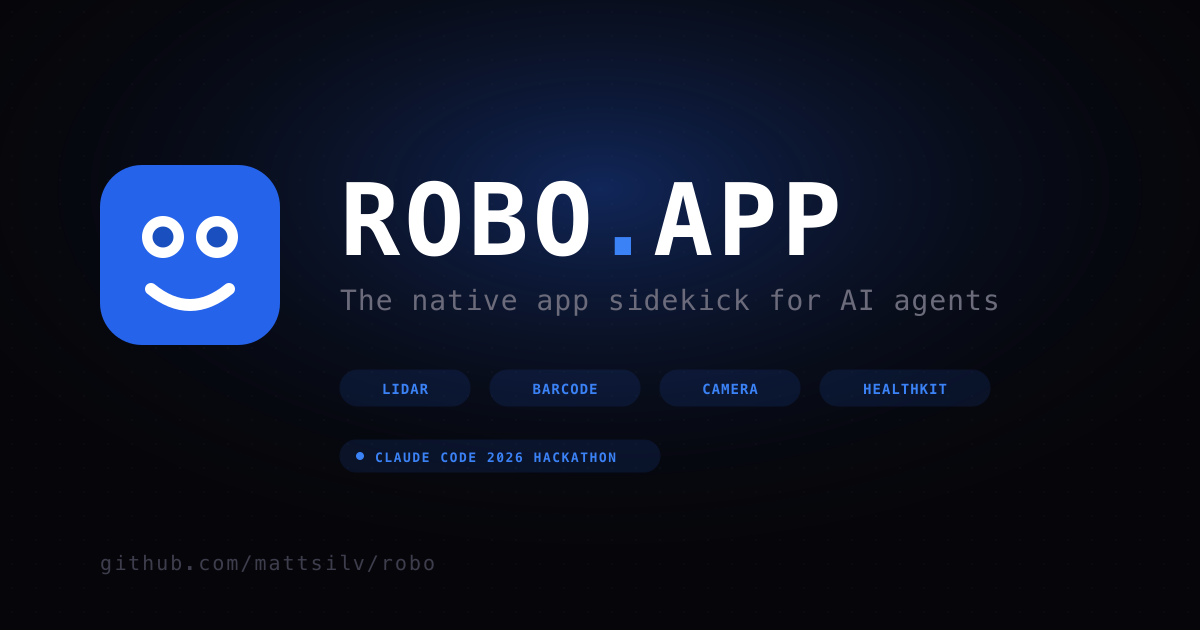
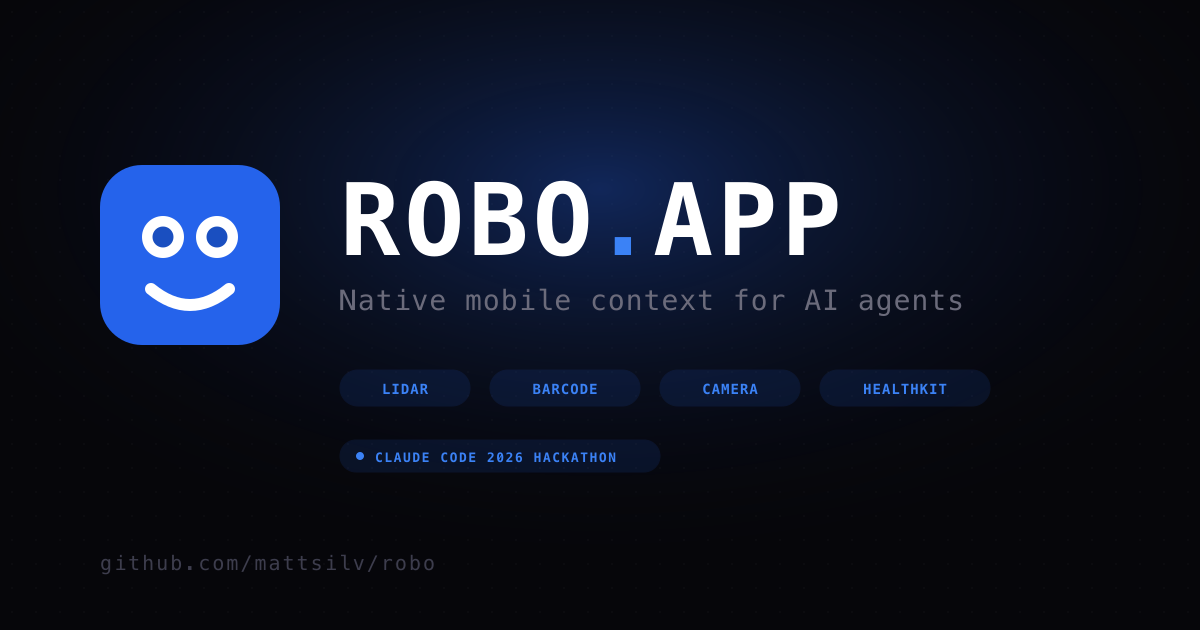
refine site messaging: native mobile context for agents (#80)
Update tagline, meta tags, description, and docs to reflect refined
pitch from Zoom feedback. Frame around native mobile context unlocking
rather than sensor APIs. Add "How It Works" 3-step section to landing
page. Replace "Vibe Coders" audience label with "Builders". Add
integration options (webhooks, REST, MCP, email) throughout.

Changed region(s): [[0.2775, 0.4524, 0.8325, 0.5127]]

diff --git a/site/index.html b/site/index.html
@@ -3,8 +3,8 @@
 <head>
   <meta charset="UTF-8">
   <meta name="viewport" content="width=device-width, initial-scale=1.0">
-  <title>ROBO.APP — The Native App Sidekick for AI Agents</title>
-  <meta name="description" content="Robo turns your iPhone's LiDAR, camera, and barcode scanner into API endpoints any AI agent can use. No iOS development required.">
+  <title>ROBO.APP — Native Mobile Context for AI Agents</title>
+  <meta name="description" content="LiDAR, camera, and barcode data are trapped on your phone — invisible to AI agents. Robo unlocks them via webhooks, REST API, MCP, or simple email export. Open source, no iOS dev required.">
 
   <!-- Favicon -->
   <link rel="icon" type="image/svg+xml" href="/favicon.svg">
@@ -15,18 +15,18 @@
   <!-- Open Graph / Facebook / Discord / iMessage -->
   <meta property="og:type" content="website">
   <meta property="og:url" content="https://robo.app/">
-  <meta property="og:title" content="ROBO.APP — Phone Sensors as API Endpoints for AI Agents">
-  <meta property="og:description" content="Turn your iPhone's LiDAR, camera, and barcode scanner into endpoints any AI agent can use. Open source. No iOS development required.">
+  <meta property="og:title" content="ROBO.APP — Native Mobile Context for AI Agents">
+  <meta property="og:description" content="LiDAR, camera, and barcode data are trapped on your phone. Robo unlocks them for AI agents — webhooks, REST, MCP, or email. Open source.">
   <meta property="og:image" content="https://robo.app/og-image.png">
   <meta property="og:image:width" content="1200">
   <meta property="og:image:height" content="630">
-  <meta property="og:image:alt" content="ROBO.APP — The native app sidekick for AI agents. Features: LiDAR, Barcode, Camera, HealthKit.">
+  <meta property="og:image:alt" content="ROBO.APP — Native mobile context for AI agents. Features: LiDAR, Barcode, Camera, HealthKit.">
   <meta property="og:site_name" content="ROBO.APP">
 
   <!-- Twitter / X -->
   <meta name="twitter:card" content="summary_large_image">
-  <meta name="twitter:title" content="ROBO.APP — Phone Sensors as API Endpoints for AI Agents">
-  <meta name="twitter:description" content="Turn your iPhone's LiDAR, camera, and barcode scanner into endpoints any AI agent can use. Open source. No iOS development required.">
+  <meta name="twitter:title" content="ROBO.APP — Native Mobile Context for AI Agents">
+  <meta name="twitter:description" content="LiDAR, camera, and barcode data are trapped on your phone. Robo unlocks them for AI agents — webhooks, REST, MCP, or email. Open source.">
   <meta name="twitter:image" content="https://robo.app/og-image.png">
   <meta name="twitter:creator" content="@mattsilv">
 
@@ -119,12 +119,15 @@
       animation: fadeUp 0.7s ease-out forwards;
     }
     .fade-in:nth-child(1) { animation-delay: 0.1s }
-    .fade-in:nth-child(2) { animation-delay: 0.25s }
-    .fade-in:nth-child(3) { animation-delay: 0.4s }
-    .fade-in:nth-child(4) { animation-delay: 0.55s }
-    .fade-in:nth-child(5) { animation-delay: 0.7s }
-    .fade-in:nth-child(6) { animation-delay: 0.85s }
-    .fade-in:nth-child(7) { animation-delay: 1.0s }
+    .fade-in:nth-child(2) { animation-delay: 0.2s }
+    .fade-in:nth-child(3) { animation-delay: 0.3s }
+    .fade-in:nth-child(4) { animation-delay: 0.4s }
+    .fade-in:nth-child(5) { animation-delay: 0.5s }
+    .fade-in:nth-child(6) { animation-delay: 0.6s }
+    .fade-in:nth-child(7) { animation-delay: 0.7s }
+    .fade-in:nth-child(8) { animation-delay: 0.8s }
+    .fade-in:nth-child(9) { animation-delay: 0.9s }
+    .fade-in:nth-child(10) { animation-delay: 1.0s }
 
     @keyframes fadeUp {
       to { opacity: 1; transform: translateY(0); }
@@ -221,8 +224,48 @@
       line-height: 1.7;
       color: var(--text-dim);
       text-align: center;
-      margin-bottom: 2.75rem;
+      margin-bottom: 2rem;
       max-width: 480px;
+    }
+
+    /* ── how it works ── */
+    .how-it-works {
+      display: flex;
+      flex-direction: column;
+      gap: 0;
+      width: 100%;
+      max-width: 480px;
+      margin-bottom: 2.75rem;
+    }
+
+    .step {
+      display: flex;
+      align-items: center;
+      gap: 0.75rem;
+      padding: 0.75rem 0;
+      border-bottom: 1px solid var(--border);
+    }
+
+    .step:last-child {
+      border-bottom: none;
+    }
+
+    .step-number {
+      font-family: 'JetBrains Mono', monospace;
+      font-weight: 800;
+      font-size: 0.85rem;
+      color: var(--blue-light);
+      min-width: 1.5rem;
+      text-align: center;
+    }
+
+    .step-text {
+      font-family: 'JetBrains Mono', monospace;
+      font-size: 0.75rem;
+      font-weight: 400;
+      color: var(--text-dim);
+      letter-spacing: 0.01em;
+      line-height: 1.5;
     }
 
     /* ── features ── */
@@ -362,7 +405,7 @@
     <h1 class="wordmark fade-in">ROBO<span class="dot">.</span>APP</h1>
 
     <!-- Tagline -->
-    <p class="tagline fade-in">The native app sidekick for AI agents</p>
+    <p class="tagline fade-in">Native mobile context for AI agents</p>
 
     <!-- Badge -->
     <div class="badge-wrap fade-in">
@@ -371,8 +414,24 @@
 
     <!-- Teaser -->
     <p class="description fade-in">
-      LiDAR, HealthKit, Bluetooth beacons, GPS — locked inside your phone. Until now. Robo turns native iOS capabilities into endpoints any AI agent can use. No iOS development required.
+      Building an AI agent is easy. Getting it phone sensor data? That means months of Swift, Xcode, and App Store review. Robo is the missing bridge — an open-source iOS app that turns your phone's sensors into endpoints any AI agent can use via webhooks, REST API, MCP, or simple email export.
     </p>
+
+    <!-- How It Works -->
+    <div class="how-it-works fade-in">
+      <div class="step">
+        <span class="step-number">1</span>
+        <span class="step-text">Your agent needs phone data (LiDAR, camera, barcode...)</span>
+      </div>
+      <div class="step">
+        <span class="step-number">2</span>
+        <span class="step-text">Users download Robo, connect via webhook / REST / email</span>
+      </div>
+      <div class="step">
+        <span class="step-number">3</span>
+        <span class="step-text">Agent gets structured sensor data — no iOS dev, no App Store</span>
+      </div>
+    </div>
 
     <!-- Features -->
     <div class="features fade-in">

diff --git a/docs/use-cases.md b/docs/use-cases.md
@@ -1,8 +1,8 @@
 # Robo Use Cases
 
-## Target Audience: Vibe Coders
+## Target Audience: Builders
 
-You can build AI agents with Claude Projects, ChatGPT, or custom GPTs. But getting phone sensor data into those agents? That requires building a native iOS app - months of Xcode, Swift, and App Store bureaucracy.
+The future of building is agentic — but your phone's richest context (LiDAR, camera, barcodes) is trapped on the device, invisible to AI agents. Want that data? Build a native iOS app. Months of Swift, Xcode, and App Store review.
 
 Robo is the missing bridge: **open-source iOS app that turns your phone's sensors into APIs any AI agent can use.**
 
@@ -73,20 +73,21 @@ Robo is the missing bridge: **open-source iOS app that turns your phone's sensor
 
 ## Key Differentiators
 
-### For Vibe Coders
-- **No iOS development required** - Skip the Swift learning curve
+### For Builders
+- **No iOS development required** - Skip Swift, Xcode, and App Store review
 - **Provider-agnostic** - Works with Claude, ChatGPT, your custom backend, or just email
+- **Integration options** - Webhooks, REST API, MCP, or simple email/zip export
 - **Open source** - Fork it, extend it, audit the code
 - **Free tier** - Email/zip export works without any backend
 
 ### Technical Flow
 ```
 Phone Sensors → Robo App → [Your Choice:]
-                            ├─ Claude Project
-                            ├─ ChatGPT
-                            ├─ Custom agent endpoint
-                            ├─ Email (free, no backend)
-                            └─ Robo hosted backend (paid, optional)
+                            ├─ Webhooks (real-time push)
+                            ├─ REST API (pull on demand)
+                            ├─ MCP (Claude tool integration)
+                            ├─ Email / ZIP (free, no backend)
+                            └─ Custom endpoint (any HTTP)
 ```
 
 ---

diff --git a/CLAUDE.md b/CLAUDE.md
@@ -5,14 +5,15 @@ iOS app that exposes phone sensors (barcode, camera, LiDAR) as API endpoints for
 
 **Deadline:** Mon Feb 16, 3:00 PM EST
 
-## Elevator Pitch (Vibe Coders)
+## Elevator Pitch (Builders)
 
-You can build AI agents easily with Claude Projects or custom GPTs. But getting phone sensor data into those agents? That still requires building a native iOS app - months of Swift, Xcode, and App Store friction.
+The future of building is agentic — but there's an insane amount of friction getting phone sensor data into AI agents. LiDAR, camera, barcodes — all trapped on the device. Want that data? Build a native iOS app. Months of Swift, Xcode, and App Store review.
 
 **Robo is the missing bridge:** Open-source iOS app (robo.app) that turns your phone's sensors into APIs any AI agent can use.
 
-- **No iOS development required** - Skip the Swift learning curve
+- **No iOS development required** - Skip Swift, Xcode, and App Store review
 - **Provider-agnostic** - Works with Claude, ChatGPT, your custom backend, or just email
+- **Integration options** - Webhooks, REST API, MCP, or simple email/zip export
 - **Open source** - Fork it, extend it, audit the code
 - **Free tier** - Email/zip export works without any backend (privacy-first)
 
